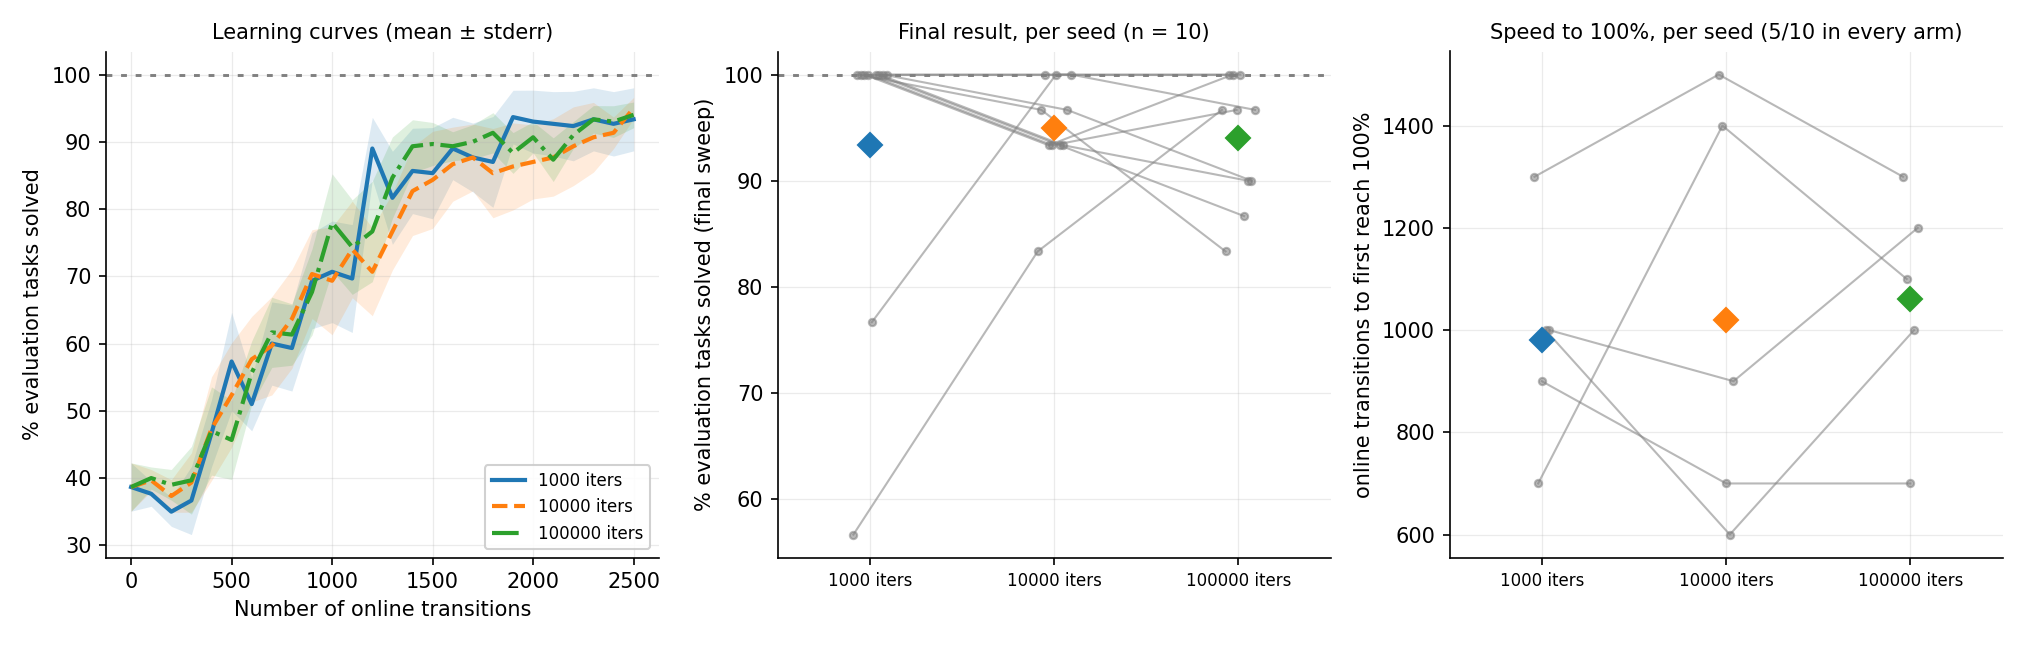
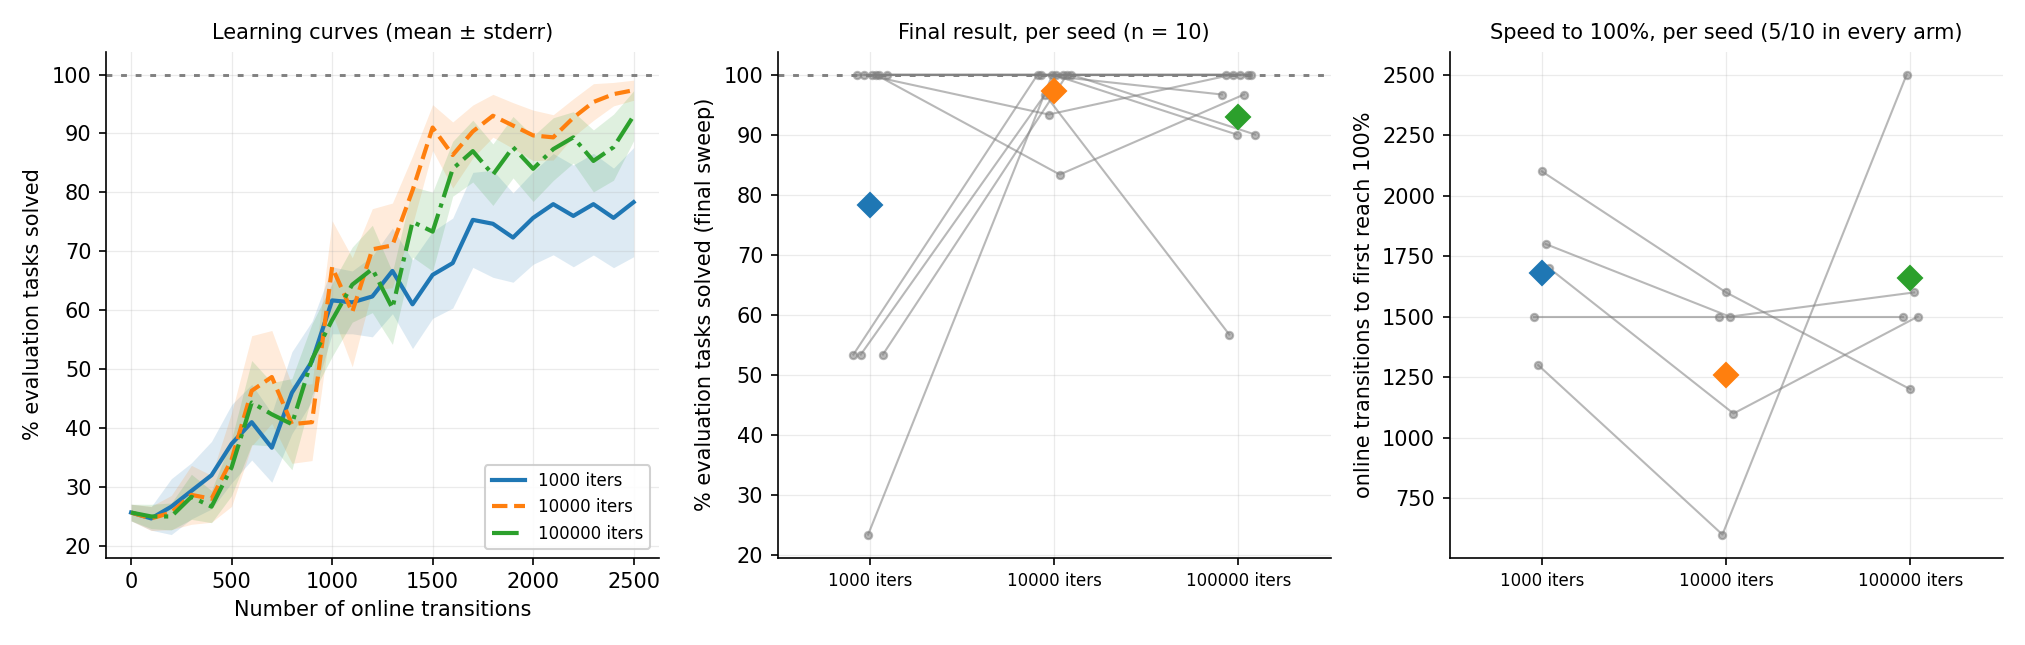
Release arms re-run on the fixed 14/14/2 test set: the iteration null does not survive
Ten seeds x 30 test tasks x 25 cycles x 100 steps, all four arms, with the realised
composition asserted at 14 TRASH / 14 RECYCLING / 2 EMPTY on every seed.

What survived. The mechanism claims are unchanged and several are sharper: the
horizon is now flat from 5 to 12, a missed throw's round trip is 8 steps, and the
single-attempt model still predicts the unpracticed floor once its composition
constant is re-derived -- 24.4% predicted against 25.7% measured, 0.6 standard
errors, against 1.2 for the old pair. Trained EES 95.0 -> 97.3, random-skills floor
3.7 -> 1.7 with five of ten seeds solving nothing.

What did not. The previous conclusion "on this domain the sampler-iteration count
does not change the success rate" is WITHDRAWN. On the corrected evaluation set 1000
iterations lands 19.0 points below 10000 (78.3 vs 97.3). At p = 0.156 that does not
establish an effect either -- but the point estimate moved from ~0 to -19 in the same
direction Ball-Ring found, so the data no longer support a null, and the honest
reading is that ten seeds cannot resolve it. About 21 seeds would be needed for 80%
power at the observed dz = 0.61.

The bimodality claim replicated and grew: per-seed finals [23.3, 53.3 x 3, 100 x 6],
29.4x the variance of the 10000 arm against 8.7x before, worst seed 60 points lower
rather than 27 -- across both a machine change and a composition change.

Previous values are recorded inline throughout rather than overwritten, and the
[…]

diff --git a/docs/experiment-logs/2026-08-02-tossingroom-ees-bringup.md b/docs/experiment-logs/2026-08-02-tossingroom-ees-bringup.md
@@ -21,12 +21,21 @@
 > direction, and the noise floor are in
 > [the release-arm table](#the-sampler-iteration-grid-is-now-a-valid-null-not-a-censored-one).
 >
+> **One conclusion did not survive**: the sampler-iteration grid's null. See the ⚠ box in
+> [that section](#the-sampler-iteration-grid-is-now-a-valid-null-not-a-censored-one).
+>
 > **Two sections here are older than that, and are marked superseded in place rather
 > than re-run**: the pre-release measurements taken when a missed `Throw` was still
 > free. They are the evidence for a defect that no longer exists, they cannot reproduce
 > against current code by construction, and re-running them would spend compute
 > re-deriving a fixed bug. They are kept because the argument they support is what
 > motivated the fix.
+>
+> **A confound worth stating up front.** The previous numbers were produced on different
+> hardware. Re-running the archived `ees10000` arm at its own commit on *this* machine
+> gave 96.0% against the 95.0% recorded here, so roughly a point of any arm-level change
+> below is machine, not composition. Per-seed values are machine-local; compare at arm
+> level. (Recorded on the closed PR #37 branch, `8866d9b`.)
 
 **Result.** `TossingRoomProblem.max_episode_steps` was `2 * num_rooms + 2 = 16` against
 a 5-skill solve — eleven spare steps, every one of them a free retry of the domain's
@@ -37,26 +46,33 @@ scores 62.7%. Porting Light Switch's `H_eval` convention (longest shortest solve
 
 With the metric fixed, EES's learned sampler is visibly doing the thing it is supposed
 to do: it drives `Throw`'s force onto each task's own `target_force`, median greedy
-error **0.253 → 0.053** (the tolerance is 0.1), per-throw hit rate **22% → 78%** against
-a 19% chance rate, and greedy throws per throw-episode **2.57 → 1.28** against a floor
-of 1. It stops retrying because it stops missing.
+error **0.249 → 0.041** (the tolerance is 0.1) and per-throw hit rate **23% → 99%**
+against a 19% chance rate. It stops missing.
 
 ![EES vs. the random-skills lower bound](2026-08-02-tossingroom-ees-curves.png)
 
-At the corrected horizon the curve has somewhere to go: EES starts at 62.3% — an
-unpracticed policy guessing the throw force — and ends at 99.0%, against a
-random-skills floor that never leaves 7%. All three sampler-iteration arms share the
-same first sweep to the decimal (62.3%), which is the sanity check that the budget
-cannot matter before any training has happened.
+**The live numbers, on the fixed 14/14/2 evaluation set** (25 cycles × 100 steps, ten
+seeds — the release protocol): EES starts at **25.7%**, an unpracticed policy guessing
+the throw force, and ends at **97.3%** at the default 10000 sampler iterations, against a
+random-skills floor of **1.7%** that no seed ever lifts off. All three sampler-iteration
+arms share the same first sweep *to every seed's integer*, which is the sanity check that
+the budget cannot matter before any training has happened.
 
 ![The throw force converges onto each task's target](2026-08-02-tossingroom-throw-convergence.png)
 
 The mechanism, from inside the same runs (3 seeds, 10k sampler iterations): the median
-greedy throw error first crosses into the `throw_tolerance` band at 750 transitions,
-comes back out at 900, and settles below it from 1050 on — and the retry count falls
-toward one throw per episode as it does. The non-monotonicity is real and is discussed
-below, not smoothed away. Detail and per-seed numbers in
+greedy throw error stays *outside* the `throw_tolerance` band — and briefly gets worse
+than chance — for the first 500 transitions, crosses into the band around 1400, and is
+stable there from ~1800 on. The non-monotonicity is real and is discussed below, not
+smoothed away. Detail and per-seed numbers in
 [the section below](#does-ees-learn-yes--it-stops-missing-so-it-stops-retrying).
+
+**One conclusion in this file did not survive the re-run.** The sampler-iteration grid
+was previously read as a genuine null ("the iteration count does not change the success
+rate"). On the corrected evaluation set 1000 iterations lands **19 points below** 10000,
+p = 0.156 — not significant, but no longer a null either. That claim is withdrawn in
+[its own section](#the-sampler-iteration-grid-is-now-a-valid-null-not-a-censored-one);
+everything else here survived.
 
 ## The bracket
 
@@ -608,29 +624,97 @@ below.
 
 ### The sampler-iteration grid is now a *valid* null, not a censored one
 
-10 seeds, 30 test tasks, 25 cycles x 100 steps:
+> ### ⚠ This section's headline claim did not survive the re-run
+>
+> The previous version of this section concluded: *"on this domain the sampler-iteration
+> count does not change the success rate."* **That conclusion is withdrawn.** It rested
+> on three arms whose means sat within 1.7 points of each other. Measured on the fixed
+> 14/14/2 evaluation set, 1000 iterations comes in **19.0 points below** 10000. The
+> comparison is still not statistically significant (p = 0.156), so the honest statement
+> is *"not established, and underpowered"* — not *"no effect"*. Details below.
 
-| arm | mean | sd | worst seed | seeds at ceiling |
-|---|---|---|---|---|
-| random skills | 3.7 | 4.0 | 0.0 | 0/10 |
-| EES, 1000 | 93.3 | **14.8** | **56.7** | 8/10 |
-| EES, 10000 | **95.0** | **5.0** | 83.3 | 3/10 |
-| EES, 100000 | 94.0 | 6.0 | 83.3 | 3/10 |
+10 seeds, 30 test tasks, 25 cycles × 100 steps. Re-run 2026-08-04; the **previous**
+values, measured on the sampled composition, are given for comparison and are struck
+through in the reading, not deleted:
 
-Paired over the same seeds: all comparisons p ~ 0.68-0.91, with only 2/10 ties.
+| arm | mean | sd | worst seed | seeds at ceiling | *previously* (mean / sd / worst / ceiling) |
+|---|---|---|---|---|---|
+| random skills | **1.7** | 1.8 | 0.0 | 0/10 | *3.7 / 4.0 / 0.0 / 0-10* |
+| EES, 1000 | **78.3** | **29.3** | **23.3** | 6/10 | *93.3 / 14.8 / 56.7 / 8-10* |
+| EES, 10000 | **97.3** | **5.4** | 83.3 | 7/10 | *95.0 / 5.0 / 83.3 / 3-10* |
+| EES, 100000 | **93.0** | 13.4 | 56.7 | 5/10 | *94.0 / 6.0 / 83.3 / 3-10* |
 
-That last column is why this null is worth more than the previous one. Under the old
-dynamics 9-10 of 10 seeds sat exactly on the ceiling, so paired seeds tied, the effective
-n collapsed to 2-3 and the exact Wilcoxon floored at p = 0.25 — the endpoint could not
-have detected an effect of any size. Now the arms have real spread and the test reports a
-genuine null: **on this domain the sampler-iteration count does not change the success
-rate.** That remains the opposite of Ball-Ring, where 10000 beat 1000 by +33 points.
+Unpracticed (first sweep, shared by all three EES arms to the decimal): **25.7%**,
+previously 38.7%.
 
-One signal the old metric could not show: **1000 iterations is bimodal.** Its per-seed
-finals are `[56, 76, 100 x 8]` — eight perfect runs and two poor ones — against
-`83-100` for 10000. Same mean, but **8.7x the variance** (sd 14.8 vs 5.0) and a worst seed
-27 points lower. Reporting only the mean would call these identical; they are not, and the
-more-trained sampler is the more *reliable* one even though fewer of its seeds are perfect.
+Per-seed finals, because an sd on ten seeds can be one collapsed run:
+
+| arm | per-seed final %, sorted |
+|---|---|
+| EES, 1000 | 23.3, 53.3, 53.3, 53.3, 100, 100, 100, 100, 100, 100 |
+| EES, 10000 | 83.3, 93.3, 96.7, 100, 100, 100, 100, 100, 100, 100 |
+| EES, 100000 | 56.7, 90.0, 90.0, 96.7, 96.7, 100, 100, 100, 100, 100 |
+| random skills | 0, 0, 0, 0, 0, 3.3, 3.3, 3.3, 3.3, 3.3 |
+
+### The sampler-iteration comparison, tested
+
+Paired over the same ten seeds, exact Wilcoxon signed-rank on the endpoint:
+
+| pair | effective n | mean diff | median diff | p | *previously* |
+|---|---|---|---|---|---|
+| 1000 vs 10000 | 6 | **−19.0** | 0.0 | **0.156** | *p ≈ 0.68–0.91* |
+| 1000 vs 100000 | 6 | −14.7 | 0.0 | 0.250 | *p ≈ 0.68–0.91* |
+| 10000 vs 100000 | 6 | +4.3 | 0.0 | 0.562 | *p ≈ 0.68–0.91* |
+
+**p = 0.156 does not establish an effect, and this log does not claim one.** What
+changed is that the *point estimate* moved from ≈0 to −19 points, which is a large
+effect in the same direction Ball-Ring found (+33 points for 10000 over 1000). The
+previous "genuine null" reading was an over-read of a non-significant result even at the
+time; with the corrected evaluation set the data actively point the other way, and the
+correct summary is that **this design cannot resolve the question.**
+
+**How underpowered, concretely.** The paired differences have mean −19.0pp and sd
+31.3pp, i.e. Cohen's `dz` ≈ 0.61. A paired design needs roughly **21 seeds** for 80%
+power at that effect size — twice what was run. (An approximation: the endpoint is
+bounded and ceiling-clipped, so this is a guide to the order of magnitude, not a
+sample-size calculation to be quoted precisely.) The median difference is 0.0 in every pair
+because 4 of 10 seeds tie at exactly 100% — the censoring that motivated the release
+change is reduced but not gone.
+
+**What this does *not* license.** "1000 is enough for Tossing Room" is no longer
+supported — it was the previous section's conclusion and it is withdrawn. "10000 beats
+1000 on Tossing Room" is *also* not supported, at p = 0.156. The supported statement is
+narrower and less satisfying: *on the corrected evaluation set the 1000-iteration arm is
+much less reliable, and ten seeds cannot tell whether that is a real mean difference.*
+
+### 1000 iterations is bimodal — replicated, and larger than before
+
+This is the claim that got *stronger*. Its per-seed finals are
+`[23.3, 53.3 × 3, 100 × 6]` — six perfect runs and four poor ones, one of them at 23.3%
+— against `83.3–100` for 10000. **29.4× the variance** (sd 29.3 vs 5.4), against the
+8.7× previously reported, and a worst seed **60 points** lower rather than 27.
+
+This is a genuine replication: it survived both a change of machine (the previous figure
+was produced on different hardware — see the limitations note below) and a change of
+evaluation set, and it came back in the same direction and larger. Reporting only the
+mean would call 1000 and 100000 similar (78.3 vs 93.0 with overlapping spread); the
+per-seed column is what shows that the 1000 arm fails *completely* on four seeds rather
+than degrading gracefully on all of them.
+
+**The mechanism is visible in the composition change itself.** A harder evaluation set —
+28 throw tasks instead of ~24, and only 2 free `EMPTY` tasks instead of ~6 — cannot hurt
+a seed whose sampler converged, and cannot help one whose sampler did not. So it widens
+the gap between the two modes rather than shifting either. That is exactly what happened:
+the 10000 arm moved *up* slightly (95.0 → 97.3) while the 1000 arm moved *down* sharply
+(93.3 → 78.3).
+
+### The random-skills floor
+
+**1.7%** (previously 3.7%), sd 1.8, and **five of ten seeds solved nothing at all**
+(previously the worst seed alone was 0). This is the shape of a genuine floor rather than
+a weak method, and it fell for the same reason the unpracticed EES score did: the free
+`EMPTY` tasks that a random skill sequence occasionally stumbles into are now 2 of 30
+rather than ~6. No seed ever reached 100%, at any point in training.
 
 ### What this does not change
 
